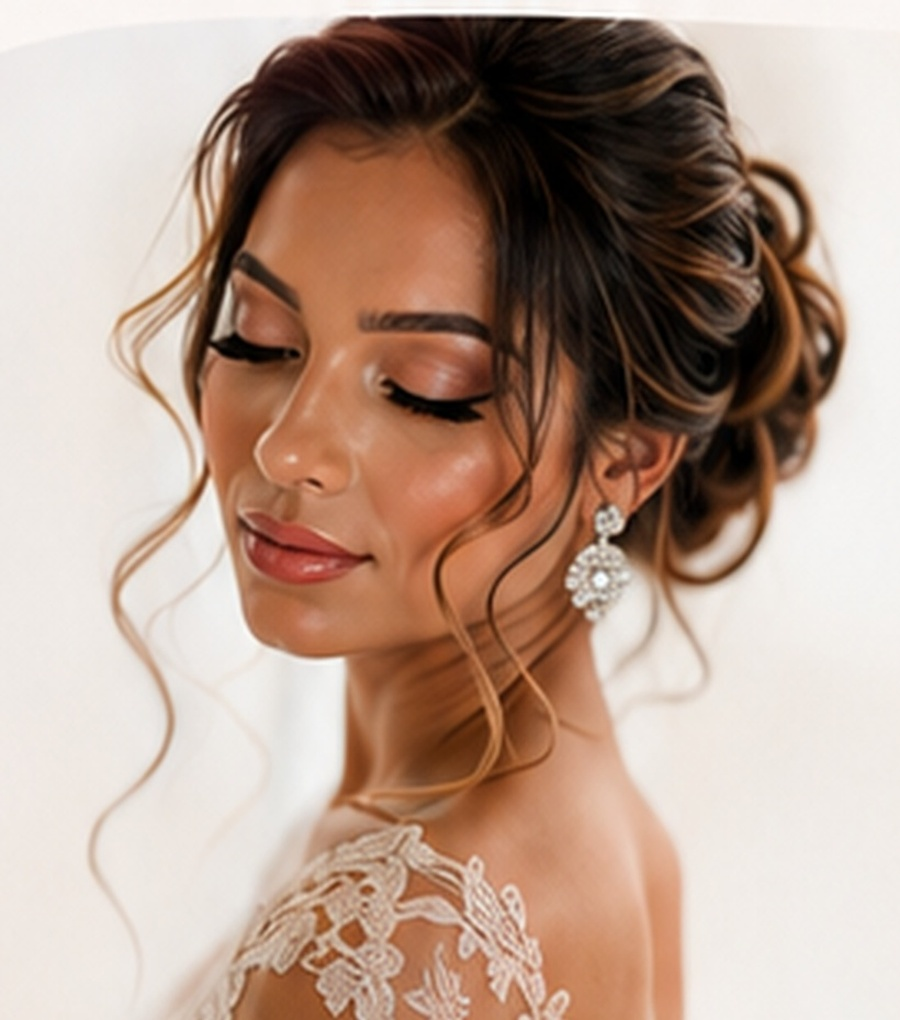
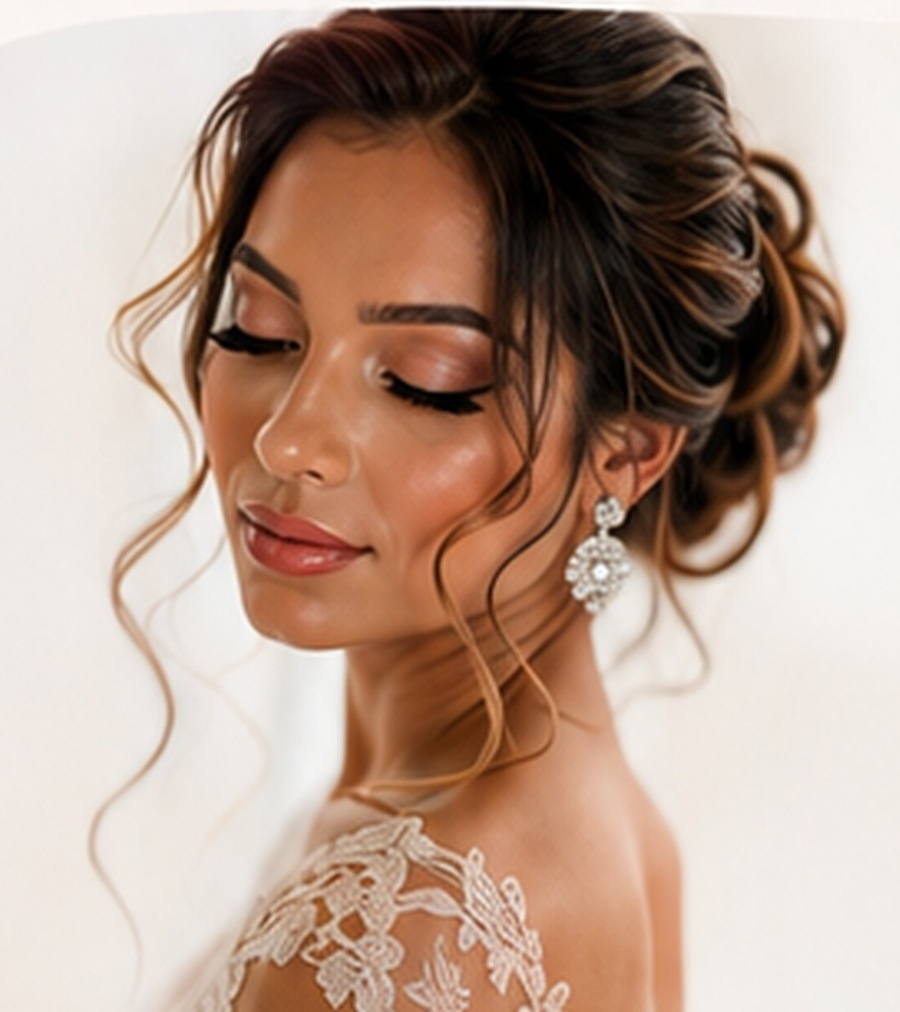
fix(hero): expandir carrossel e layout inicial 100% fiel ao prototipo

diff --git a/src/styles.scss b/src/styles.scss
@@ -200,24 +200,37 @@ main { display: block; overflow: visible; }
   background: var(--rose);
 }
 
-/* Área Central - Carrossel Amplo e de Destaque */
+/* Área Central - Carrossel Amplo e de Destaque Aberto (Conforme Protótipo) */
 .hero-visual {
   position: relative;
-  height: 660px;
+  height: 680px;
   display: flex;
   align-items: center;
   justify-content: center;
   z-index: 3;
 }
 
+.hero-curve-accent {
+  position: absolute;
+  left: -20px;
+  top: 15px;
+  width: 520px;
+  height: 620px;
+  background: radial-gradient(circle at 35% 45%, rgba(246, 228, 220, 0.85) 0%, rgba(255, 248, 244, 0.7) 65%, transparent 100%);
+  border-radius: 55% 45% 40% 50% / 60% 55% 45% 40%;
+  pointer-events: none;
+  z-index: 1;
+}
+
 .hero-image-stage {
   position: relative;
   width: 100%;
-  max-width: 530px;
-  height: 650px;
+  max-width: 620px;
+  height: 680px;
   display: flex;
   align-items: center;
   justify-content: center;
+  z-index: 2;
 }
 
 .hero-image {
@@ -227,12 +240,13 @@ main { display: block; overflow: visible; }
   height: 100%;
   object-fit: cover;
   object-position: center top;
-  border-radius: 260px 260px 200px 200px;
+  border-radius: 0;
   opacity: 0;
   transform: scale(1.02);
   transition: opacity 0.85s cubic-bezier(0.4, 0, 0.2, 1), transform 1.1s cubic-bezier(0.4, 0, 0.2, 1);
-  filter: contrast(0.98) saturate(0.96);
-  box-shadow: 0 16px 45px rgba(115, 65, 50, 0.14);
+  filter: contrast(0.99) saturate(0.98);
+  mask-image: linear-gradient(to bottom, black 85%, transparent 100%);
+  -webkit-mask-image: linear-gradient(to bottom, black 85%, transparent 100%);
 }
 
 .hero-image.active {

diff --git a/src/app/components/hero/hero.html b/src/app/components/hero/hero.html
@@ -38,6 +38,7 @@
 
     <!-- Centro: Carrossel de Destaque Grande e Elegante (Conforme Protótipo) -->
     <div class="hero-visual">
+      <div class="hero-curve-accent" aria-hidden="true"></div>
       <div class="hero-image-stage">
         @for (slide of slides; track slide.image; let index = $index) {
           <img class="hero-image" 
